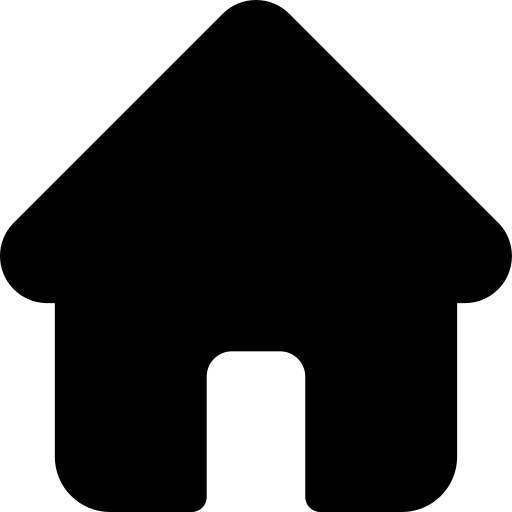
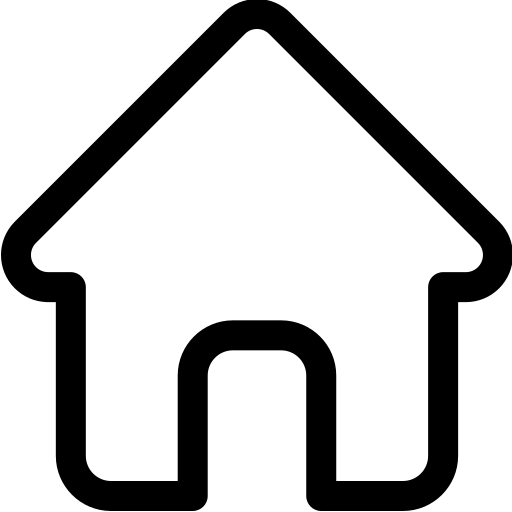
G2P-3863 Add styling to Registry type page

diff --git a/src/app/register/[type]/page.tsx b/src/app/register/[type]/page.tsx
@@ -142,7 +142,7 @@ export default function RegisterTypePage() {
 
 
   return (
-    <div className="min-h-screen mx-auto">
+    <div className="min-h-screen mx-auto bg-[#F3F1E4]">
       <TopBar
         breadcrumb={[{ label: registerTypeLabel }]}
         showFilters
@@ -157,47 +157,51 @@ export default function RegisterTypePage() {
         filterConfig={filterConfig}
       />
 
-      <div className="px-6 py-4">
-        <div className="border-b border-gray-200 mb-4">
-          <SelectedFilters
-            appliedFilters={appliedFilters}
-            filterConfig={filterConfig}
-            removeFilter={removeFilter}
-            clearAllFilters={clearAllFilters}
-          />
-        </div>
+      <div className="mx-auto px-4 sm:px-6 lg:px-8 py-4 bg-white rounded-[30px] max-w-7xl">
 
-        <div className="space-y-3">
+        <SelectedFilters
+          appliedFilters={appliedFilters}
+          filterConfig={filterConfig}
+          removeFilter={removeFilter}
+          clearAllFilters={clearAllFilters}
+        />
+
+        <div className="-mx-4 sm:-mx-6 lg:-mx-8 space-y-2">
           {isLoadingRecords ? (
             <div className="text-center py-10 text-gray-500">Loading...</div>
           ) : records.length === 0 ? (
             <div className="text-center py-10 text-gray-500">No items found</div>
           ) : (
-            records.map((record) => {
+            records.map((record, index) => {
               const sortedFields = sortedDisplayFields(record.display_fields);
+              const isEven = index % 2 === 0;
 
               return (
                 <Link
                   key={record.internal_record_id}
                   href={`/register/${registerType}/${record.internal_record_id}`}
-                  className="block"
+                  className="block w-full"
                 >
-                  <div className="flex items-center gap-6 p-5 bg-white border-2 border-gray-300 rounded-md hover:shadow-sm hover:border-gray-400 transition-all">
+                  <div className={`flex items-center gap-4 sm:gap-6 px-4 sm:px-6 lg:px-8 p-4 w-full overflow-hidden ${
+                    isEven 
+                      ? 'bg-[#D9D9D940]' 
+                      : 'bg-white'
+                  }`}>
                     {record.image ? (
                       <img
                         src={record.image}
                         alt={record.record_name}
-                        className="w-16 h-16 rounded-md object-cover shrink-0"
+                        className="w-12 h-12 sm:w-14 sm:h-14 lg:w-16 lg:h-16 rounded-md object-cover shrink-0"
                       />
                     ) : (
-                      <div className="w-16 h-16 bg-gray-300 rounded-md shrink-0" />
+                      <div className="w-12 h-12 sm:w-14 sm:h-14 lg:w-16 lg:h-16 bg-gray-300 rounded-md shrink-0" />
                     )}
 
                     <div className="flex-1 min-w-0">
-                      <h3 className="font-bold text-gray-900 text-base mb-0.5">
+                      <h3 className="font-bold text-[#ED7C22] text-sm sm:text-base mb-0.5">
                         {record.record_name}
                       </h3>
-                      <p className="text-sm text-gray-600">
+                      <p className="text-xs sm:text-sm text-gray-600">
                         <span className="font-bold">ID :</span>{' '}
                         <span className="font-bold text-gray-900">
                           {record.internal_record_id}
@@ -213,14 +217,14 @@ export default function RegisterTypePage() {
 
                       return (
                         <div key={startIndex} className="flex-1 min-w-0">
-                          <p className="text-sm text-gray-900 truncate">
+                          <p className="text-xs sm:text-sm text-gray-900 truncate">
                             <span className="font-bold text-gray-600">
                               {firstField.field_name}:{' '}
                             </span>
                             <span className="font-bold">{firstField.value}</span>
                           </p>
                           {secondField && (
-                            <p className="text-sm text-gray-900 truncate">
+                            <p className="text-xs sm:text-sm text-gray-900 truncate">
                               <span className="font-bold text-gray-600">
                                 {secondField.field_name}:{' '}
                               </span>

diff --git a/src/components/shared/PaginationBar.tsx b/src/components/shared/PaginationBar.tsx
@@ -70,19 +70,20 @@ export default function PaginationBar({
     const isNextDisabled = pageEnd >= total;
 
     return (
-        <div className="flex items-center gap-3">
-            <span className="text-sm text-gray-700 min-w-[140px] text-center">
-                {pageStart} - {pageEnd} of {total}
+        <div className="flex items-center gap-2">
+            <span className="w-[80px] h-[19px] text-center font-normal text-[16px] text-[#1E1E1E]">
+            {pageStart} - {pageEnd} of {total}
             </span>
+
 
             <div className="flex items-center gap-2">
                 <button
                     onClick={onPrev}
                     disabled={isPrevDisabled}
-                    className={`h-[30px] w-[30px] flex items-center justify-center border rounded
+                    className={`w-[40px] h-[34px] flex items-center justify-center rounded-[17px]
             ${isPrevDisabled
-                            ? "bg-gray-100 cursor-not-allowed opacity-50"
-                            : "bg-white hover:bg-gray-100"
+                            ? "bg-[#F2BA1A] cursor-not-allowed"
+                            : "bg-[#F2BA1A]"
                         }`}
                 >
                     <Image
@@ -97,10 +98,10 @@ export default function PaginationBar({
                 <button
                     onClick={onNext}
                     disabled={isNextDisabled}
-                    className={`h-[30px] w-[30px] flex items-center justify-center border rounded
+                    className={`w-[40px] h-[34px] flex items-center justify-center rounded-[17px]
             ${isNextDisabled
-                            ? "bg-gray-100 cursor-not-allowed opacity-50"
-                            : "bg-white hover:bg-gray-100"
+                            ? "bg-[#F2BA1A] cursor-not-allowed"
+                            : "bg-[#F2BA1A]"
                         }`}
                 >
                     <Image

diff --git a/src/features/filter/components/SelectedFilters.tsx b/src/features/filter/components/SelectedFilters.tsx
@@ -34,27 +34,32 @@ export default function SelectedFilters({
   };
 
   return (
-    <div className="bg-white px-4 py-2 flex flex-wrap items-center gap-4 border-t border-gray-300 shadow-sm">
-      <span className="font-semibold text-gray-700">Selected filters</span>
+    <div className="bg-white px-4 py-2 mb-2 flex flex-wrap items-center gap-4 ">
+      <span className="w-[110px] h-[19px] font-normal text-[16px]  text-black">
+        Selected filters
+      </span>
 
       {appliedFilters.map((filter, index) => (
-        <div
-          key={index}
-          className="flex items-center bg-gray-200 rounded-md px-3 py-1 text-sm gap-2"
+      <div
+        key={index}
+        className="w-auto h-[34px] flex items-center bg-[#fcf0d6] rounded-full px-3 text-sm gap-2"
+      >
+        <span>{getFilterLabel(filter)}</span>
+
+        <button
+          onClick={() => removeFilter(index)}
+          className="font-bold text-black"
+          aria-label="Remove filter"
         >
-          <span>{getFilterLabel(filter)}</span>
+          <Image src="/close.png" width={16} height={16} alt="clear" />
+        </button>
+      </div>
+    ))}
 
-          <button
-            onClick={() => removeFilter(index)}
-            className="text-gray-600 hover:text-gray-900 font-bold"
-            aria-label={`Remove filter`}
-          >
-            <Image src="/close.png" width={16} height={16} alt="clear" />
-          </button>
-        </div>
-      ))}
-
-      <button onClick={clearAllFilters} className="text-sm font-semibold text-black">
+      <button
+        onClick={clearAllFilters}
+        className="w-[60px] h-[19px]  font-normal text-[16px] text-[#ED7C22]"
+      >
         Clear All
       </button>
     </div>

diff --git a/src/features/filter/components/FilterDropdown.tsx b/src/features/filter/components/FilterDropdown.tsx
@@ -148,8 +148,8 @@ export default function FilterDropdown({
                         onClick={() => setSelectedFilterId(filter.id)}
                         className={`w-full text-left px-3 py-2 rounded-lg text-sm
               ${filter.id === selectedFilterId
-                                ? "bg-gray-500 text-white"
-                                : "hover:bg-gray-100 text-gray-700"}`}
+                                ? "bg-[#F2BA1A] text-black"
+                                : "hover: bg-[#F2BA2D] text-black"}`}
                     >
                         {filter.label}
                     </button>
@@ -158,7 +158,7 @@ export default function FilterDropdown({
 
             <div className="w-px bg-gray-200 my-4" />
 
-            <div className="flex-1 p-5 space-y-6">
+            <div className="flex-1 p-5 space-y-6 justify-center">
                 <div className="text-xl font-semibold">
                     {selectedFilter && `Search by ${selectedFilter.label.toLowerCase()}`}
                 </div>
@@ -193,12 +193,14 @@ export default function FilterDropdown({
                     </>
                 )}
 
+                <div className="flex justify-center">
                 <button
                     onClick={applyFilter}
-                    className="bg-black text-white px-5 py-2.5 rounded-lg text-sm"
+                    className="bg-black text-white px-5 py-2.5 rounded-lg text-sm text-center"
                 >
-                    Apply Filter
+                    Apply
                 </button>
+            </div>
             </div>
         </div>
     );

diff --git a/src/components/shared/BreadcrumbBar.tsx b/src/components/shared/BreadcrumbBar.tsx
@@ -17,7 +17,7 @@ export default function BreadcrumbBar({ breadcrumb = [] }: BreadcrumbBarProps) {
         <div className="flex items-center gap-2">
 
             <Link href="/" passHref>
-                <div className="h-[30px] flex items-center px-3 border rounded bg-white cursor-pointer hover:bg-gray-100">
+                <div className="h-[30px] flex items-center px-3 rounded  cursor-pointer ">
                     <Image src="/home.png" width={20} height={20} alt="home" />
                 </div>
             </Link>
@@ -30,7 +30,8 @@ export default function BreadcrumbBar({ breadcrumb = [] }: BreadcrumbBarProps) {
                         key={index}
                         className="flex items-center gap-2"
                     >
-                        <div className="h-[30px] flex items-center px-3 border rounded bg-white text-sm text-gray-700 hover:bg-gray-100">
+                        <div className="w-[97px] h-[23px] flex items-center justify-center font-medium text-[20px] text-black ">
+
 
                             {item.href && !isLast ? (
                                 <Link href={item.href} passHref>

diff --git a/src/app/api/register/[type]/route.ts b/src/app/api/register/[type]/route.ts
@@ -12,7 +12,7 @@ const MOCK_REGISTER_RECORDS = {
       functional_record_id: "FARMER-00001",
       link_record_id: null,
       record_name: "Rajesh Kumar",
-      image: null,
+      image: "/male_image.png",
       display_fields: [
         { field_name: "first_name", value: "Rajesh", order: 1 },
         { field_name: "last_name", value: "Kumar", order: 2 },
@@ -27,7 +27,7 @@ const MOCK_REGISTER_RECORDS = {
       functional_record_id: "FARMER-00002",
       link_record_id: null,
       record_name: "Sita Devi",
-      image: null,
+      image: '/female_image.png',
       display_fields: [
         { field_name: "first_name", value: "Sita", order: 1 },
         { field_name: "last_name", value: "Devi", order: 2 },
@@ -42,7 +42,7 @@ const MOCK_REGISTER_RECORDS = {
       functional_record_id: "FARMER-00003",
       link_record_id: null,
       record_name: "Amit Sharma",
-      image: null,
+      image: "/male_image.png",
       display_fields: [
         { field_name: "first_name", value: "Amit", order: 1 },
         { field_name: "last_name", value: "Sharma", order: 2 },

diff --git a/src/features/filter/components/FilterBar.tsx b/src/features/filter/components/FilterBar.tsx
@@ -36,10 +36,12 @@ export default function FilterBar({
         <div className="relative inline-block" ref={dropdownRef}>
             <button
                 onClick={() => setOpen((prev) => !prev)}
-                className="h-[30px] flex items-center gap-16 px-3 border rounded bg-white text-sm hover:bg-gray-100 disabled:opacity-50"
+                className="h-[30px] flex items-center gap-16 px-3  rounded-4xl bg-[#F2BA1A] text-sm "
                 disabled={filterLoading}
-            >
-                <span>{filterLoading ? "Loading..." : "Filters"}</span>
+            >   <span className="font-medium text-[16px] leading-none tracking-normal text-[#1E1E1E]">
+                {filterLoading ? "Loading..." : "Filters"}
+                </span>
+
                 <Image src="/filter_icon.png" width={16} height={16} alt="filters" />
             </button>
 

diff --git a/src/app/layout.tsx b/src/app/layout.tsx
@@ -29,11 +29,13 @@ export default function RootLayout({
     return (
         <html lang="en">
             <body
-                className={`${geistSans.variable} ${geistMono.variable} antialiased`}
+                className={`${geistSans.variable} ${geistMono.variable} antialiased pt-[70px]`}
             >
                 <GlobalContextProvider>
                     <Header />
-                    {children}
+                    <main>
+                        {children}
+                    </main>
                 </GlobalContextProvider>
             </body>
         </html>

diff --git a/src/components/shared/TopBar.tsx b/src/components/shared/TopBar.tsx
@@ -41,9 +41,9 @@ export default function TopBar({
     filterLoading = false,
 }: TopBarProps) {
     return (
-        <div className="w-full bg-white shadow-sm px-4 h-[60px] flex justify-between items-center">
+        <div className="w-full px-4 sm:px-6 h-[70px] flex justify-between items-center">
             <BreadcrumbBar breadcrumb={breadcrumb} />
-            <div className="flex items-center gap-2">
+            <div className="flex items-center gap-2 sm:gap-4">
                 {showFilters && (
                     <FilterBar
                         onFilters={onFilters}
